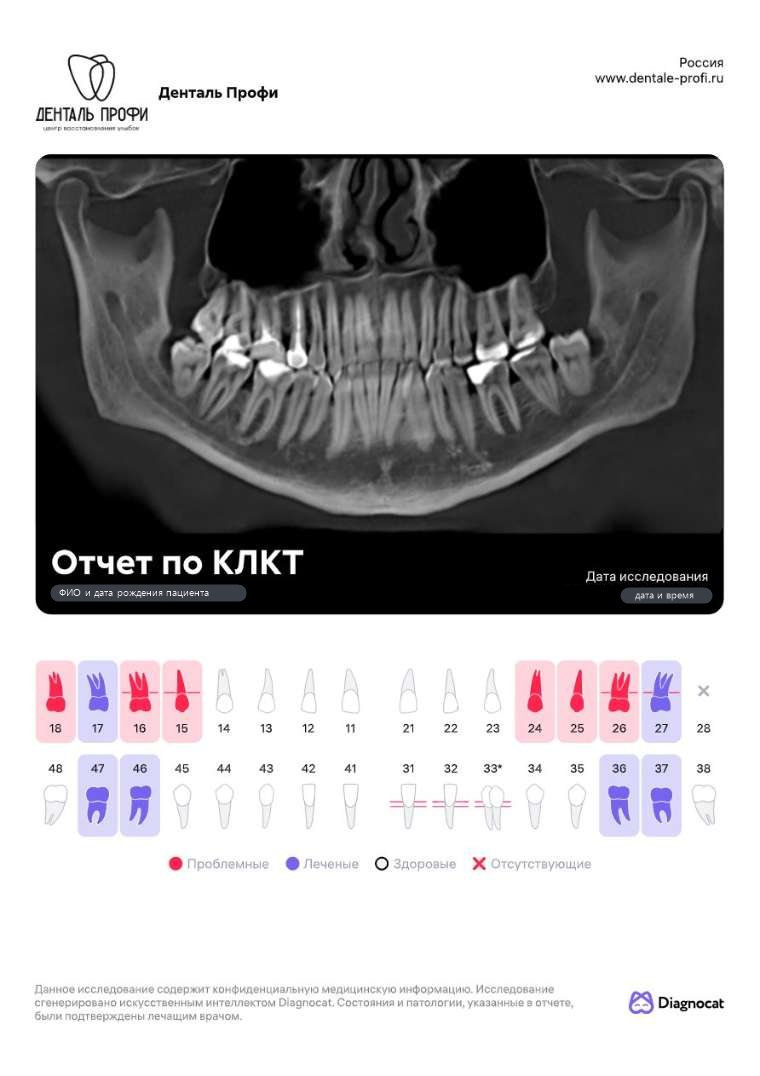
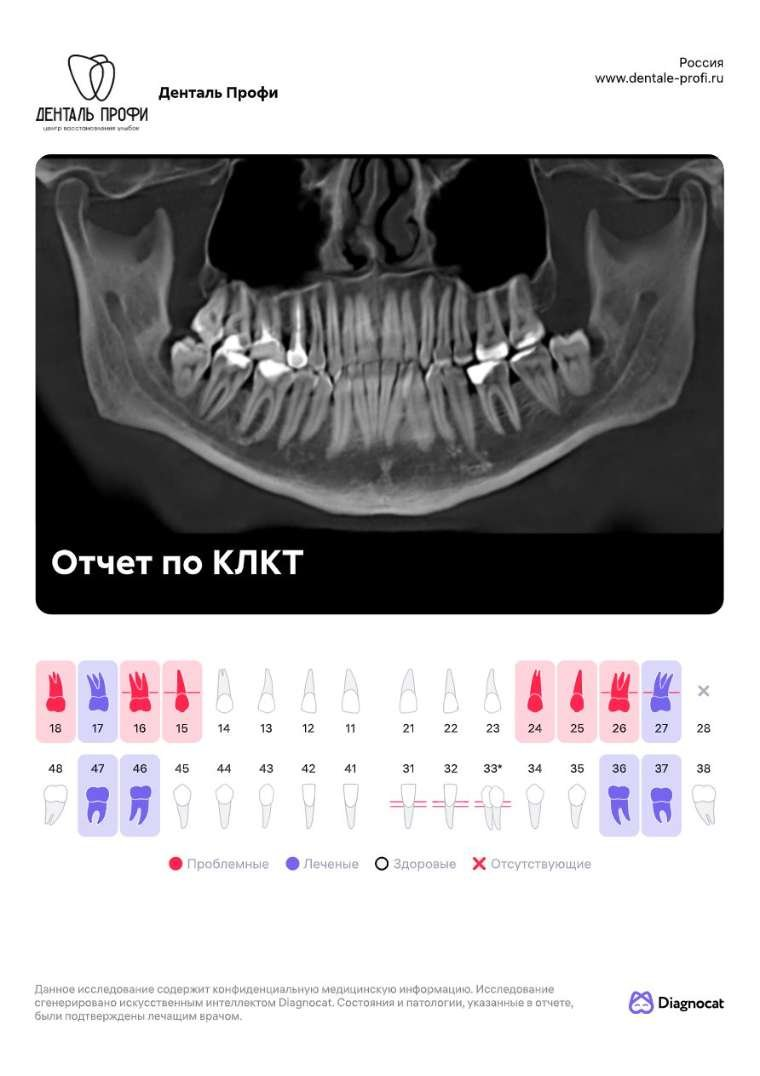
Пример плана лечения: первый этап — гигиена и лечение дёсен с контролем, без служебных заглушек в оформлении

Changed region(s): [[0.0605, 0.5214, 0.3329, 0.5827], [0.7566, 0.5214, 0.9382, 0.5827]]

diff --git a/primer-plana/index.html b/primer-plana/index.html
@@ -12,7 +12,7 @@
 <style>:root{color-scheme:light;box-sizing:border-box;padding-top:env(safe-area-inset-top,0px);padding-bottom:env(safe-area-inset-bottom,0px)}html{scroll-padding-top:env(safe-area-inset-top,0px)}body{margin:0;padding:0;font:14px -apple-system,BlinkMacSystemFont,sans-serif;background:#fff;color:#000}img{max-width:100%}[hidden]:not([hidden=until-found i]){display:none!important}</style>
 <link rel="stylesheet" href="assets/css/style.css?v=1">
 <link rel="stylesheet" href="assets/css/plan.css?v=6">
-<link rel="stylesheet" href="assets/css/primer.css?v=7">
+<link rel="stylesheet" href="assets/css/primer.css?v=9">
 <script src="assets/js/main.js?v=2"></script>
 </head>
 <body>
@@ -138,7 +138,7 @@
       </div>
     </section>
 
-    <!-- 2. Прототип плана -->
+    <!-- 2. Пример плана -->
     <section class="section section--gray" id="primer">
       <div class="container">
         <h2 class="h2">Так выглядит план лечения</h2>
@@ -157,30 +157,19 @@
             </ol>
             <p class="demo__note">
               <svg viewBox="0 0 24 24" width="20" height="20" aria-hidden="true"><rect x="4" y="10.5" width="16" height="10" rx="2.5" fill="none" stroke="currentColor" stroke-width="2"/><path d="M8 10.5V8a4 4 0 0 1 8 0v2.5" fill="none" stroke="currentColor" stroke-width="2" stroke-linecap="round"/></svg>
-              <span><b>Прототип.</b> План упрощён, имена, даты и&nbsp;суммы скрыты.</span>
+              <span>Пример обезличен и&nbsp;упрощён: имена, даты и&nbsp;суммы скрыты.</span>
             </p>
           </aside>
 
           <article class="sheet" aria-label="Пример плана лечения">
-            <p class="sheet__ribbon">Прототип плана&nbsp;· данные пациента скрыты</p>
+            <p class="sheet__ribbon">Обезличенный пример плана лечения</p>
             <div class="sheet__body">
 
               <header class="sheet__head">
                 <img class="sheet__logo" src="assets/img/logo-plan.png" width="640" height="447" alt="Денталь Профи, центр восстановления улыбок" loading="lazy" decoding="async">
-                <div class="sheet__org">
-                  <b>Денталь Профи</b>
-                  <span class="blank">филиал, адрес и&nbsp;телефон</span>
-                  <span class="blank blank--sm">реквизиты и&nbsp;лицензия клиники</span>
-                </div>
               </header>
 
               <h3 class="sheet__title">Информационный план лечения</h3>
-              <dl class="info">
-                <div class="info__row"><dt>Пациент</dt><dd><span class="blank">ФИО пациента</span></dd></div>
-                <div class="info__row"><dt>Ответственный врач</dt><dd><span class="blank">ФИО врача</span></dd></div>
-                <div class="info__row"><dt>Дата плана</dt><dd><span class="blank">дд.мм.гггг</span></dd></div>
-                <div class="info__row"><dt>Диагност</dt><dd><span class="blank">ФИО врача</span></dd></div>
-              </dl>
 
               <!-- Состояние зубов -->
               <section class="part" id="p-state">
@@ -234,7 +223,7 @@
                   </ul>
                 </div>
                 <div class="ktrep">
-                  <figure class="ktrep__page"><a class="ktrep__zoom" href="assets/img/kt-otchet-1.jpg" target="_blank" rel="noopener" aria-label="Открыть страницу отчёта крупно"><img src="assets/img/kt-otchet-1.jpg" width="760" height="1076" alt="первая страница отчёта по КТ: панорамный снимок челюстей и схема зубов, ФИО и даты скрыты" loading="lazy" decoding="async"><span class="ktrep__hint"><svg viewBox="0 0 24 24" width="16" height="16" aria-hidden="true"><circle cx="10.5" cy="10.5" r="6" fill="none" stroke="currentColor" stroke-width="2"/><path d="M15 15l5 5M10.5 8v5M8 10.5h5" fill="none" stroke="currentColor" stroke-width="2" stroke-linecap="round"/></svg>Увеличить</span></a><figcaption>Отчёт по&nbsp;КТ&nbsp;· страница 1 из&nbsp;10</figcaption></figure>
+                  <figure class="ktrep__page"><a class="ktrep__zoom" href="assets/img/kt-otchet-1.jpg?v=2" target="_blank" rel="noopener" aria-label="Открыть страницу отчёта крупно"><img src="assets/img/kt-otchet-1.jpg?v=2" width="760" height="1076" alt="первая страница отчёта по КТ: панорамный снимок челюстей и схема зубов, данные пациента скрыты" loading="lazy" decoding="async"><span class="ktrep__hint"><svg viewBox="0 0 24 24" width="16" height="16" aria-hidden="true"><circle cx="10.5" cy="10.5" r="6" fill="none" stroke="currentColor" stroke-width="2"/><path d="M15 15l5 5M10.5 8v5M8 10.5h5" fill="none" stroke="currentColor" stroke-width="2" stroke-linecap="round"/></svg>Увеличить</span></a><figcaption>Отчёт по&nbsp;КТ&nbsp;· страница 1 из&nbsp;10</figcaption></figure>
                   <figure class="ktrep__page"><a class="ktrep__zoom" href="assets/img/kt-otchet-2.jpg" target="_blank" rel="noopener" aria-label="Открыть страницу отчёта крупно"><img src="assets/img/kt-otchet-2.jpg" width="760" height="1076" alt="страница отчёта по КТ с разбором зубов 18, 17 и 16 в разных срезах" loading="lazy" decoding="async"><span class="ktrep__hint"><svg viewBox="0 0 24 24" width="16" height="16" aria-hidden="true"><circle cx="10.5" cy="10.5" r="6" fill="none" stroke="currentColor" stroke-width="2"/><path d="M15 15l5 5M10.5 8v5M8 10.5h5" fill="none" stroke="currentColor" stroke-width="2" stroke-linecap="round"/></svg>Увеличить</span></a><figcaption>Отчёт по&nbsp;КТ&nbsp;· страница 2 из&nbsp;10</figcaption></figure>
                 </div>
                 <p class="part__note part__note--blue">Отчёт по&nbsp;КТ&nbsp;— 10 страниц с&nbsp;разбором каждого зуба в&nbsp;нескольких срезах. Это автоматический анализ снимка, окончательный диагноз ставит врач.</p>
@@ -247,12 +236,29 @@
 
                 <div class="phase" style="--phase:#C08A3E">
                   <div class="phase__head">
-                    <div class="phase__name"><b>Основа здоровья</b><span>Убираем воспаление и&nbsp;приводим зубы в&nbsp;здоровое состояние&nbsp;— это фундамент для&nbsp;всего лечения.</span></div>
+                    <div class="phase__name"><b>Основа здоровья</b><span>Убираем воспаление дёсен и&nbsp;зубов, приводим их&nbsp;в&nbsp;здоровое состояние&nbsp;— это фундамент для&nbsp;всего лечения.</span></div>
                     <span class="phase__term">≈&nbsp;4&nbsp;мес.</span>
                   </div>
                   <ol class="stages">
                     <li class="stage">
                       <span class="stage__num">I</span>
+                      <div class="stage__main">
+                        <p class="stage__title">Профессиональная гигиена и&nbsp;лечение дёсен</p>
+                        <p class="stage__why">Зачем: убираем налёт и&nbsp;зубной камень, снимаем воспаление дёсен&nbsp;— с&nbsp;этого начинается лечение.</p>
+                      </div>
+                      <span class="stage__term">в&nbsp;начале лечения</span>
+                      <span class="cost" role="img" aria-label="сумма скрыта"><i class="cost__bar"></i>₽</span>
+                      <details class="more">
+                        <summary class="more__sum">Что входит</summary>
+                        <ul class="pos">
+                          <li class="pos__row pos__row--wide"><span class="pos__name">Профессиональная гигиена</span><span class="cost cost--sm" role="img" aria-label="сумма скрыта"><i class="cost__bar"></i>₽</span></li>
+                          <li class="pos__row"><span class="pos__tooth">Зубы 31, 32, 41, 42</span><span class="pos__name">Лечение дёсен при пародонтите</span><span class="cost cost--sm" role="img" aria-label="сумма скрыта"><i class="cost__bar"></i>₽</span></li>
+                          <li class="pos__row pos__row--wide"><span class="pos__name">Контрольный осмотр: оценка состояния дёсен</span><span class="cost cost--sm" role="img" aria-label="сумма скрыта"><i class="cost__bar"></i>₽</span></li>
+                        </ul>
+                      </details>
+                    </li>
+                    <li class="stage">
+                      <span class="stage__num">II</span>
                       <div class="stage__main">
                         <p class="stage__title">Лечение зубов и&nbsp;устранение очагов инфекции (санация)</p>
                         <p class="stage__why">Зачем: сохраняем и&nbsp;восстанавливаем зубы, убираем инфекцию.</p>
@@ -277,7 +283,7 @@
                       </details>
                     </li>
                     <li class="stage">
-                      <span class="stage__num">II</span>
+                      <span class="stage__num">III</span>
                       <div class="stage__main">
                         <p class="stage__title">Удаление зубов мудрости</p>
                         <p class="stage__why">Зачем: зубы 18, 38, 48 удаляем перед исправлением прикуса.</p>
@@ -303,7 +309,7 @@
                   </div>
                   <ol class="stages">
                     <li class="stage">
-                      <span class="stage__num">III</span>
+                      <span class="stage__num">IV</span>
                       <div class="stage__main">
                         <p class="stage__title">Ортодонтическая диагностика и&nbsp;удаление лишнего зуба</p>
                         <p class="stage__why">Зачем: ортодонт составляет план исправления прикуса; сверхкомплектный зуб удаляем по&nbsp;его заключению.</p>
@@ -319,7 +325,7 @@
                       </details>
                     </li>
                     <li class="stage">
-                      <span class="stage__num">IV</span>
+                      <span class="stage__num">V</span>
                       <div class="stage__main">
                         <p class="stage__title">Исправление прикуса элайнерами или&nbsp;брекетами</p>
                         <p class="stage__why">Зачем: выровненные зубы и&nbsp;правильный прикус определяют форму будущих коронок.</p>
@@ -346,7 +352,7 @@
                   </div>
                   <ol class="stages">
                     <li class="stage">
-                      <span class="stage__num">V</span>
+                      <span class="stage__num">VI</span>
                       <div class="stage__main">
                         <p class="stage__title">Постоянное протезирование</p>
                         <p class="stage__why">Зачем: заменяем несостоятельные коронки на&nbsp;новые.</p>
@@ -370,7 +376,7 @@
                   </div>
                   <ol class="stages">
                     <li class="stage">
-                      <span class="stage__num">VI</span>
+                      <span class="stage__num">VII</span>
                       <div class="stage__main">
                         <p class="stage__title">Ретенционные каппы</p>
                         <p class="stage__why">Зачем: помогают удержать новое положение зубов и&nbsp;защищают конструкции.</p>

diff --git a/primer-plana/assets/css/primer.css b/primer-plana/assets/css/primer.css
@@ -91,10 +91,10 @@
   margin-top: 16px;
   padding: 14px 16px;
   border-radius: 14px;
-  background: #FFF3C4;
+  background: #E8EFF8;
   font-size: 15px;
   line-height: 20px;
-  color: #5E4600;
+  color: var(--navy);
 }
 
 .demo__note svg {
@@ -116,13 +116,13 @@
 
 .sheet__ribbon {
   padding: 10px 28px;
-  background: #FFF3C4;
+  background: #E8EFF8;
   font-size: 13px;
   line-height: 17px;
   font-weight: 700;
   letter-spacing: 0.06em;
   text-transform: uppercase;
-  color: #5E4600;
+  color: #49678D;
 }
 
 .sheet__body {
@@ -133,48 +133,13 @@
   display: flex;
   flex-wrap: wrap;
   align-items: flex-start;
-  justify-content: space-between;
+  justify-content: center;
   gap: 16px 24px;
 }
 
 .sheet__logo {
   width: 150px;
   height: auto;
-}
-
-.sheet__org {
-  display: flex;
-  flex-direction: column;
-  align-items: flex-end;
-  gap: 6px;
-  font-size: 16px;
-  line-height: 20px;
-  color: var(--navy);
-  text-align: right;
-}
-
-.sheet__org b {
-  font-weight: 700;
-}
-
-/* скрытые данные: пустое поле с подписью, что там будет */
-.blank {
-  display: inline-block;
-  padding: 3px 12px;
-  border: 1px dashed #B9C5D6;
-  border-radius: 999px;
-  background: #F3F6FA;
-  font-size: 14px;
-  line-height: 18px;
-  font-weight: 500;
-  color: #7B8A9D;
-  white-space: nowrap;
-}
-
-.blank--sm {
-  padding: 2px 10px;
-  font-size: 13px;
-  line-height: 17px;
 }
 
 .sheet__title {
@@ -186,32 +151,6 @@
   letter-spacing: -0.01em;
   color: var(--navy);
   text-align: center;
-}
-
-.info {
-  display: grid;
-  grid-template-columns: repeat(2, minmax(0, 1fr));
-  column-gap: 32px;
-  margin: 20px 0 0;
-}
-
-.info__row {
-  display: flex;
-  align-items: center;
-  justify-content: space-between;
-  gap: 12px;
-  padding: 10px 0;
-  border-bottom: 1px solid #DCE3EC;
-}
-
-.info dt {
-  font-size: 15px;
-  line-height: 20px;
-  color: #49678D;
-}
-
-.info dd {
-  margin: 0;
 }
 
 /* ---------- Разделы документа ---------- */
@@ -1227,33 +1166,10 @@
     width: 104px;
   }
 
-  .sheet__org {
-    align-items: flex-start;
-    font-size: 15px;
-    text-align: left;
-  }
-
-  .sheet__head {
-    flex-direction: column;
-  }
-
   .sheet__title {
     margin-top: 20px;
     font-size: 20px;
     line-height: 25px;
-  }
-
-  .info {
-    grid-template-columns: minmax(0, 1fr);
-    margin-top: 12px;
-  }
-
-  .info__row {
-    padding: 8px 0;
-  }
-
-  .info dt {
-    font-size: 14px;
   }
 
   .part {
@@ -1706,4 +1622,5 @@
   .zoom--full .zoom__img {
     width: 760px;
   }
+
 }
